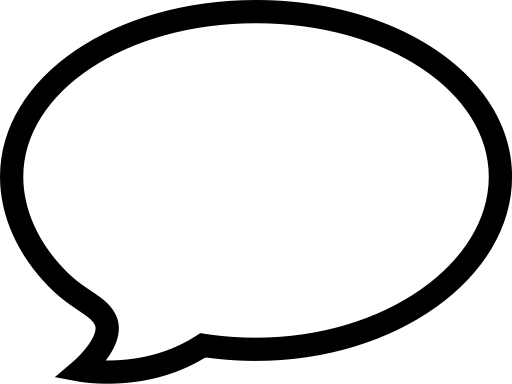
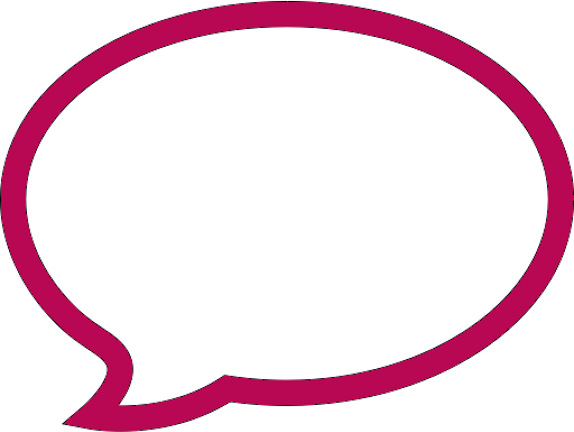
changing the color of DafKesher headlines

Changed region(s): [[0.0, 0.0, 1.0, 1.0]]

diff --git a/src/pages/DafKesherPage/DafKesherPage.css b/src/pages/DafKesherPage/DafKesherPage.css
@@ -11,6 +11,7 @@
 .p-daf-kesher h2{
     text-align: center;
     text-shadow: -1px 1px 1px rgba(100,43,27,0.56);
+    color: #B80753;
 }
 .p-daf-kesher .date{
     text-align: center;
@@ -39,6 +40,7 @@
     align-items: center;
     padding: 0 20px;
     height: 48px;
+    color: #B80753;
 }
 
 .p-daf-kesher .card h5 img{
